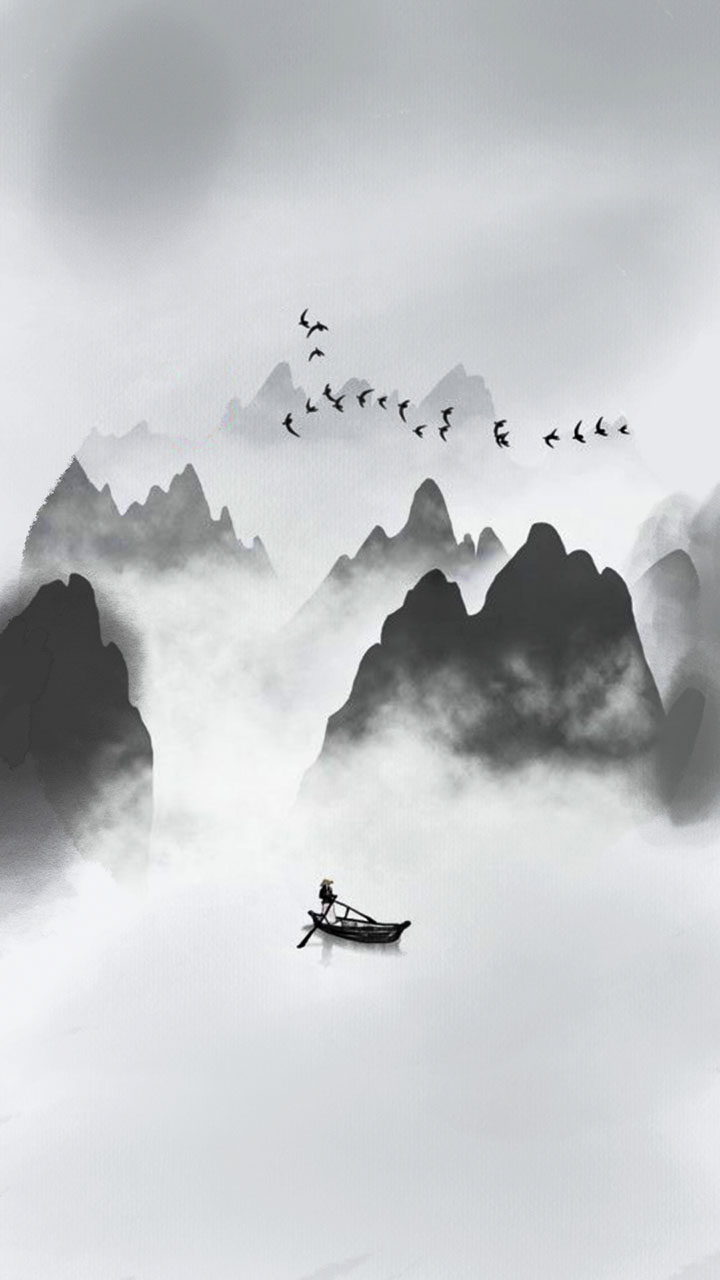
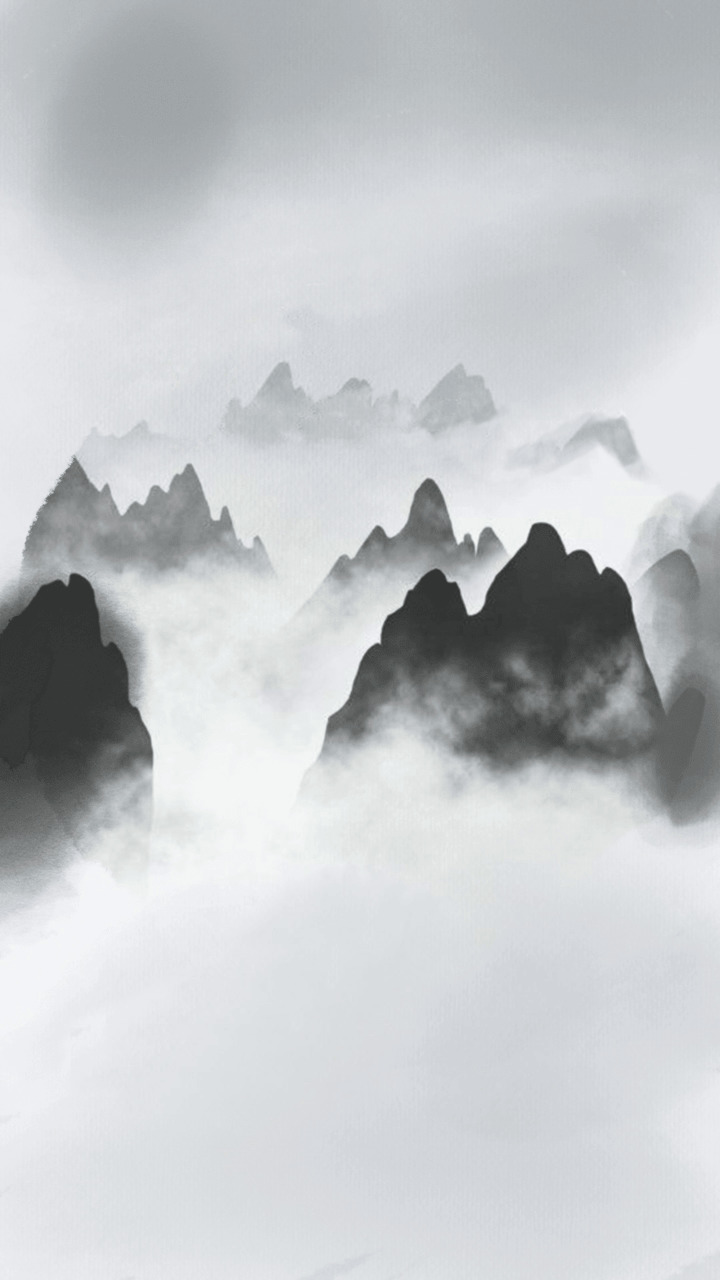
:sparkles: add animation for birds

diff --git a/src/views/Home.vue b/src/views/Home.vue
@@ -35,6 +35,12 @@
           </v-layout>
         </v-container>
       </v-flex>
+      <img src="~@/assets/home/bird1.png"
+           width="3%" class="birds-animator-1"
+      />
+      <img src="~@/assets/home/bird2.png"
+           width="3%" class="birds-animator-2"
+      />
       <img src="~@/assets/home/boat.png"
              width="20%" class="boat-animator"
       />
@@ -68,7 +74,7 @@ export default {
 
 <style lang="stylus" scoped>
   #wrapper
-    background-image: url("~@/assets/home/bg-clean.jpg")
+    background-image: url("~@/assets/home/bg.jpg")
     background-repeat: no-repeat
     background-size: 100% 100%
     padding: 1rem
@@ -114,5 +120,38 @@ export default {
     0% { opacity: 0 }
     50% { opacity: 1 }
     100% { opacity: 1 }
+  }
+
+  $birds-move-time = 10s
+  $birds-delay = 0.2s
+  $birds-flap-time = 2s
+  .birds-animator-1
+    position: absolute
+    top: 30%
+    right: 0
+    z-index: 0
+    transform: rotate3d(1, 0, 0, 0deg)
+    animation: birds-flap $birds-flap-time infinite ease-in-out forwards,\
+      birds-h $birds-move-time infinite linear forwards
+
+  .birds-animator-2
+    position: absolute
+    top: 32%
+    right: 0
+    z-index: 0
+    transform: rotate3d(1, 0, 0, 0deg)
+    animation: birds-flap $birds-flap-time infinite ease-in-out forwards,\
+      birds-h $birds-move-time $birds-delay infinite linear forwards
+
+  @keyframes birds-h {
+    0% { right: -10% }
+    87.5% { right: 100% }
+    100% { right: 100% }
+  }
+
+  @keyframes birds-flap {
+    0% { transform: rotate3d(1, 0, 0, 0deg) }
+    50% { transform: rotate3d(1, 0, 0, 50deg) }
+    100% { transform: rotate3d(1, 0, 0, 0deg) }
   }
 </style>

diff --git a/src/assets-description.js b/src/assets-description.js
@@ -18,8 +18,9 @@ export const imgURLs = [
   require('@/assets/guwen/bg-text-input.png'),
   // home
   require('@/assets/home/bg.jpg'),
-  require('@/assets/home/bg-clean.jpg'),
   require('@/assets/home/boat.png'),
+  require('@/assets/home/bird1.png'),
+  require('@/assets/home/bird2.png'),
   // poem
   require('@/assets/poem/bg.jpg'),
   bgBasePath + '10.jpg'
